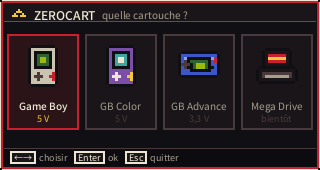
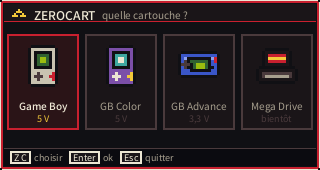
Keys F, Z, X, C as up, left, down, right; never put 5 V on a GBA cartridge
- The Cardputer's arrows need the Fn key: F, Z, X and C (inverted T) now act as up, left, down and
  right everywhere in the app (Fn + arrows still work); the key legends show them.
- When Game Boy is chosen on a reader that sets the voltage, the cartridge header is first read at
  3.3 V: a valid GBA header means 5 V is not applied (the app says it is probably a GBA cartridge).
- README: keys and voltage behaviour updated.

Changed region(s): [[0.0312, 0.8824, 0.5625, 0.9706]]

diff --git a/crates/zerocart-app/src/app.rs b/crates/zerocart-app/src/app.rs
@@ -257,6 +257,7 @@ impl App {
 
     pub fn on_routed(&mut self, r: Routed) {
         let Routed::Down(key) = r else { return };
+        let key = arrow_alias(key);
         self.dirty = true;
         if self.stage != Stage::Main {
             self.start_key(key);
@@ -747,6 +748,59 @@ mod tests {
     }
 
     #[test]
+    fn f_z_x_c_are_up_left_down_right_without_the_fn_key() {
+        assert_eq!(
+            ['f', 'z', 'x', 'c', 'F', 'Z', 'X', 'C'].map(|c| arrow_alias(Key::Char(c))),
+            [Key::Up, Key::Left, Key::Down, Key::Right, Key::Up, Key::Left, Key::Down, Key::Right]
+        );
+        for k in [Key::Up, Key::Enter, Key::Esc, Key::Char('r'), Key::Char('y'), Key::Char('g')] {
+            assert_eq!(arrow_alias(k), k, "other keys are left alone");
+        }
+    }
+
+    #[test]
+    fn the_letters_drive_the_start_screens_and_the_tabs_like_the_arrows() {
+        let (mut a, _rx) = fresh(vec![]);
+        down(&mut a, Key::Char('x')); // any key ends the splash
+        assert_eq!(a.stage, Stage::System);
+        down(&mut a, Key::Char('c')); // right: Game Boy Color
+        down(&mut a, Key::Char('c')); // right: Game Boy Advance
+        down(&mut a, Key::Char('z')); // left: back to Game Boy Color
+        down(&mut a, Key::Enter);
+        assert_eq!((a.stage, a.system), (Stage::Readers, System::Gbc));
+        let (mut b, rx) = app();
+        rx.try_recv().unwrap();
+        b.on_event(Event::Detected(Ok((reader(), Some(cart())))));
+        down(&mut b, Key::Char('c')); // right: Actions tab
+        assert_eq!(b.tab, Tab::Actions);
+        down(&mut b, Key::Char('x')); // down: second action
+        assert_eq!(b.action_sel, 1);
+        down(&mut b, Key::Char('f')); // up
+        assert_eq!(b.action_sel, 0);
+        down(&mut b, Key::Char('z')); // left: Cartridge tab
+        assert_eq!(b.tab, Tab::Info);
+    }
+
+    #[test]
+    fn the_file_picker_is_driven_by_the_letters_too_but_confirmation_stays_on_y() {
+        let d = tempfile::tempdir().unwrap();
+        std::fs::write(d.path().join("a.sav"), vec![0u8; 16]).unwrap();
+        std::fs::write(d.path().join("b.sav"), vec![0u8; 16]).unwrap();
+        let (mut a, rx) = app_in(d.path());
+        a.action_sel = 2; // write save
+        down(&mut a, Key::Enter);
+        down(&mut a, Key::Char('x')); // down to b.sav
+        down(&mut a, Key::Enter);
+        down(&mut a, Key::Char('c')); // right is not a confirmation
+        assert!(rx.try_recv().is_err());
+        down(&mut a, Key::Char('y'));
+        match rx.try_recv().unwrap() {
+            Cmd::WriteSave(p) => assert!(p.ends_with("b.sav")),
+            other => panic!("unexpected {other:?}"),
+        }
+    }
+
+    #[test]
     fn start_with_skips_the_start_screens() {
         let (mut a, rx) = fresh(vec![]);
         a.start_with(ReaderKind::GbxCart, System::Gbc);
@@ -909,6 +963,18 @@ mod tests {
         assert!(!a.want_quit);
         down(&mut a, Key::Esc);
         assert!(a.want_quit);
+    }
+}
+
+/// The cardputer's arrows need the Fn key, which is awkward: F, Z, X and C (an inverted T: F above, Z X C below) are
+/// taken as up, left, down and right everywhere. The application has no text entry, so no letter is lost.
+pub fn arrow_alias(key: Key) -> Key {
+    match key {
+        Key::Char('f' | 'F') => Key::Up,
+        Key::Char('z' | 'Z') => Key::Left,
+        Key::Char('x' | 'X') => Key::Down,
+        Key::Char('c' | 'C') => Key::Right,
+        other => other,
     }
 }
 

diff --git a/crates/zerocart-app/src/worker.rs b/crates/zerocart-app/src/worker.rs
@@ -538,6 +538,18 @@ impl Worker {
             None => Dev::open()?,
         };
         let mode = if dmg { CartMode::Dmg } else { CartMode::Agb };
+        // A reader that sets the voltage must never put 5 V on a GBA cartridge: when the user chose a Game Boy, look
+        // first at 3.3 V whether the cartridge has a valid GBA header, and if so do not go to 5 V.
+        if dmg && !d.r().info(CartMode::Dmg).voltage.is_empty() {
+            if let Ok(h) = d.r().read_header(CartMode::Agb) {
+                if gba_cart_inside(&h) {
+                    let info = d.r().info(CartMode::Agb);
+                    let reader = ReaderView { name: info.name, firmware: info.firmware, voltage: info.voltage };
+                    *dev = Some(d);
+                    return Ok((reader, None));
+                }
+            }
+        }
         let header = d.r().read_header(mode).map_err(|e| e.to_string())?;
         let info = d.r().info(mode);
         let reader = ReaderView { name: info.name, firmware: info.firmware, voltage: info.voltage };
@@ -736,6 +748,12 @@ impl Worker {
     }
 }
 
+/// A header read at 3.3 V that is a valid GBA header (fixed byte and complement checksum): a Game Boy cartridge
+/// read this way gives junk, which almost never passes both checks.
+pub fn gba_cart_inside(header: &[u8]) -> bool {
+    parse_agb(header).is_some_and(|h| h.logo_ok && h.header_checksum_ok)
+}
+
 /// Reads the whole save (Game Boy RAM through the mapper, or GBA SRAM). `progress(done)` returns false to cancel.
 fn read_save_data(d: &mut Dev, mapper: Option<DmgMapper>, size: usize, progress: &mut dyn FnMut(usize) -> bool) -> Result<Vec<u8>, String> {
     let fail = |e: zerocart_core::Error| if matches!(e, zerocart_core::Error::Cancelled) { "annulé".to_string() } else { e.to_string() };
@@ -812,5 +830,37 @@ mod tests {
         let a = unique_path(d.path(), "Game", "gba");
         std::fs::write(&a, b"x").unwrap();
         assert_eq!(unique_path(d.path(), "Game", "gba").file_name().unwrap(), "Game (2).gba");
+    }
+}
+
+#[cfg(test)]
+mod guard_tests {
+    use super::*;
+
+    fn gba_header() -> Vec<u8> {
+        let mut h = vec![0u8; 0x180];
+        h[0xA0..0xA8].copy_from_slice(b"TESTGAME");
+        h[0xB2] = 0x96;
+        let sum = h[0xA0..=0xBC].iter().fold(0u8, |a, &b| a.wrapping_sub(b)).wrapping_sub(0x19);
+        h[0xBD] = sum;
+        h
+    }
+
+    #[test]
+    fn a_valid_gba_header_is_recognised_so_that_5_v_is_not_applied() {
+        assert!(gba_cart_inside(&gba_header()));
+    }
+
+    #[test]
+    fn junk_and_game_boy_data_read_at_3_3_v_are_not_taken_for_a_gba_cartridge() {
+        assert!(!gba_cart_inside(&vec![0xFF; 0x180]));
+        assert!(!gba_cart_inside(&vec![0u8; 0x180]));
+        let mut half = gba_header();
+        half[0xBD] ^= 1; // fixed byte right, checksum wrong
+        assert!(!gba_cart_inside(&half));
+        let mut other = gba_header();
+        other[0xB2] = 0x00; // checksum right for the old bytes, fixed byte wrong
+        assert!(!gba_cart_inside(&other));
+        assert!(!gba_cart_inside(&[1, 2, 3]), "a short read is not a header");
     }
 }

diff --git a/crates/zerocart-ui/src/lib.rs b/crates/zerocart-ui/src/lib.rs
@@ -168,19 +168,19 @@ pub fn render(p: &mut Painter, v: &View) {
     let hints: Vec<(&str, &str)> = match (v.tab, v.progress.is_some()) {
         (_, true) => vec![("Esc", if fr { "annuler" } else { "cancel" })],
         (Tab::Tools, _) => vec![
-            ("←→", if fr { "onglet" } else { "tab" }),
+            ("Z C", if fr { "onglet" } else { "tab" }),
             ("Enter", if fr { "analyser" } else { "analyse" }),
-            ("↑↓", if fr { "défiler" } else { "scroll" }),
+            ("F X", if fr { "défiler" } else { "scroll" }),
             ("Esc", if fr { "quitter" } else { "quit" }),
         ],
         (Tab::Actions, _) => vec![
-            ("←→", if fr { "onglet" } else { "tab" }),
-            ("↑↓", if fr { "choisir" } else { "pick" }),
+            ("Z C", if fr { "onglet" } else { "tab" }),
+            ("F X", if fr { "choisir" } else { "pick" }),
             ("Enter", if fr { "lancer" } else { "run" }),
             ("Esc", if fr { "quitter" } else { "quit" }),
         ],
         _ => vec![
-            ("←→", if fr { "onglet" } else { "tab" }),
+            ("Z C", if fr { "onglet" } else { "tab" }),
             ("R", match (v.reader.is_some_and(|r| r.voltage.is_empty()), fr) {
                 (true, true) => "lire GBA",
                 (true, false) => "read GBA",
@@ -248,7 +248,7 @@ fn overlay(p: &mut Painter, v: &View, o: &Overlay) {
                 }
                 p.text(item, 11, sel, if sel { TEXT } else { DIM }, 26, y + 2, Some(SCREEN_W - 44));
             }
-            p.footer(&[("↑↓", if fr { "choisir" } else { "pick" }), ("Enter", if fr { "ok" } else { "ok" }), ("Esc", if fr { "retour" } else { "back" })], v.banner);
+            p.footer(&[("F X", if fr { "choisir" } else { "pick" }), ("Enter", if fr { "ok" } else { "ok" }), ("Esc", if fr { "retour" } else { "back" })], v.banner);
         }
         Overlay::Confirm { lines } => {
             let mut y = 47;

diff --git a/crates/zerocart-ui/src/screens.rs b/crates/zerocart-ui/src/screens.rs
@@ -45,7 +45,7 @@ pub fn render_system(p: &mut Painter, lang: Lang, selected: usize, banner: Optio
         }
     }
     p.footer(
-        &[("←→", if fr { "choisir" } else { "pick" }), ("Enter", if fr { "ok" } else { "ok" }), ("Esc", if fr { "quitter" } else { "quit" })],
+        &[("Z C", if fr { "choisir" } else { "pick" }), ("Enter", if fr { "ok" } else { "ok" }), ("Esc", if fr { "quitter" } else { "quit" })],
         banner,
     );
 }
@@ -97,7 +97,7 @@ pub fn render_readers(p: &mut Painter, lang: Lang, system: System, rows: &[Reade
         p.text_right(&r.detail, 8, false, DIM, 16, y + 13);
     }
     let hints: &[(&str, &str)] = &[
-        ("↑↓", if fr { "choisir" } else { "pick" }),
+        ("F X", if fr { "choisir" } else { "pick" }),
         ("Enter", if fr { "confirmer" } else { "confirm" }),
         ("Esc", if fr { "retour" } else { "back" }),
     ];

diff --git a/README.md b/README.md
@@ -21,7 +21,7 @@ with a 320x170 Famicom-style interface driven by the keyboard.
 
 Everything that changes a cartridge asks for a file, then for a confirmation with `Y`; before writing, the whole
 ROM chip (or the current save) is backed up to `~/zerocart/backups` from two reads that must agree, and the result is
-read back and compared. The 3.3 V GBA mode is the default; the Game Boy 5 V mode needs the explicit `G` key.
+read back and compared. The system chosen on the first screen sets the mode and the voltage (Game Boy and Game Boy Color 5 V, Game Boy Advance 3.3 V), and when Game Boy is chosen on a reader that sets the voltage, ZeroCart first looks at 3.3 V whether the cartridge is a Game Boy Advance one, and then does not go to 5 V.
 
 Not handled yet: other Game Boy mappers, flash chips with buffered writes or other command sets (they are refused,
 not guessed), GBxCart-specific firmware features, the e-Reader and the Pocket Camera.
@@ -33,10 +33,10 @@ in `~/zerocart`; dumps are written there too.
 
 | Key | |
 |---|---|
-| Left / Right | tab (Cartridge, Actions, Tools) |
-| Up / Down, Enter | choose, run |
-| `R` | read the cartridge again |
-| `G` | Game Boy mode (5 V) |
+| `Z` / `C` (or Fn + arrows) | left / right: choose the system, change tab |
+| `F` / `X` (or Fn + arrows) | up / down: choose a reader, an action, a file |
+| Enter | confirm the choice, run |
+| `R` | read the cartridge again (after swapping it) |
 | `Y` | confirm a write |
 | Esc | cancel (only before the writing starts), quit |
 
